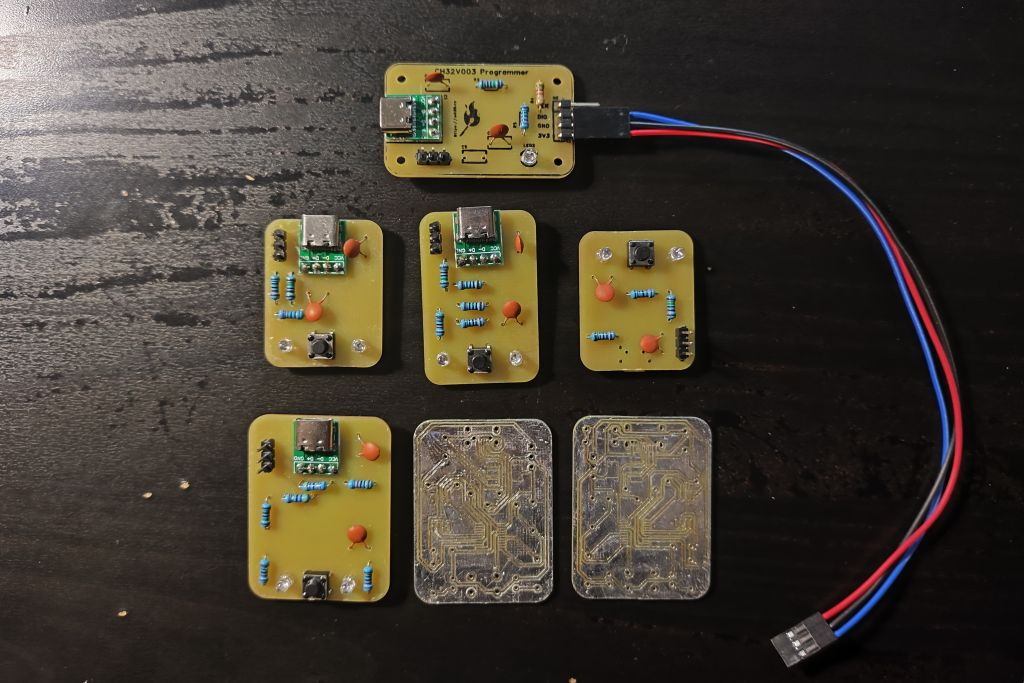
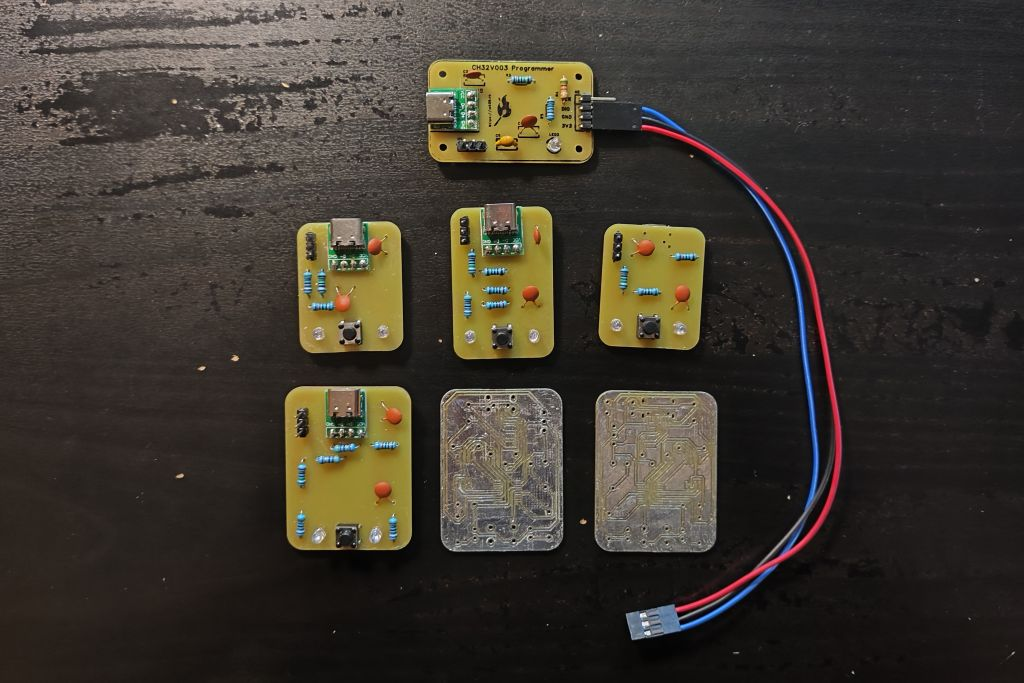
Update

diff --git a/CH32V003 Programmer/Readme.md b/CH32V003 Programmer/Readme.md
@@ -2,7 +2,7 @@
 
 The CH32V003 Programmer was implemented on a single-layer PCB and manufactured using CNC machine. It is based on [rvswdio_programmer](https://github.com/cnlohr/rv003usb/tree/master/rvswdio_programmer).
 
-![Schematic](PCB/CH32V003_Programmer_Top2.jpg)
+![Schematic](PCB/CH32V003_Programmer_Top.jpg)
 ![Schematic](PCB/CH32V003_Programmer_Schematic.png)
 
 
